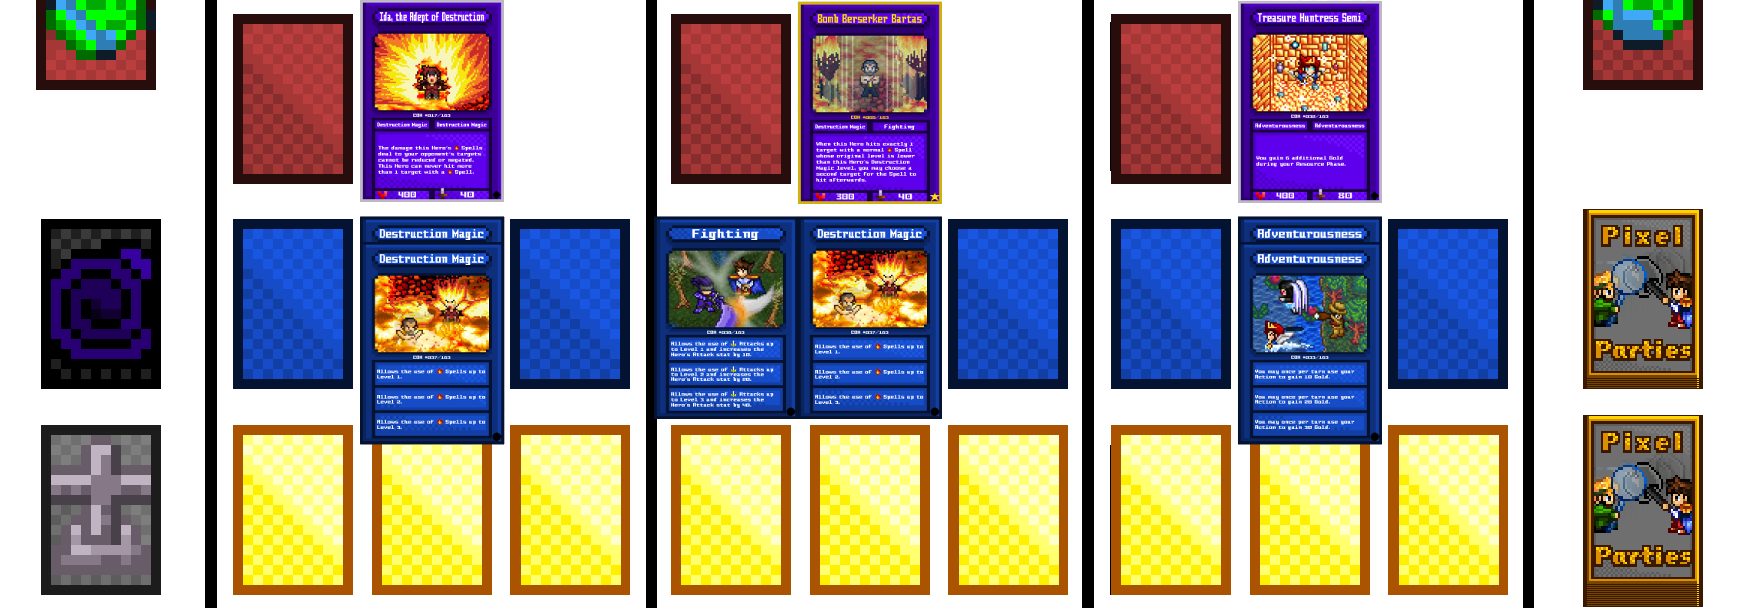
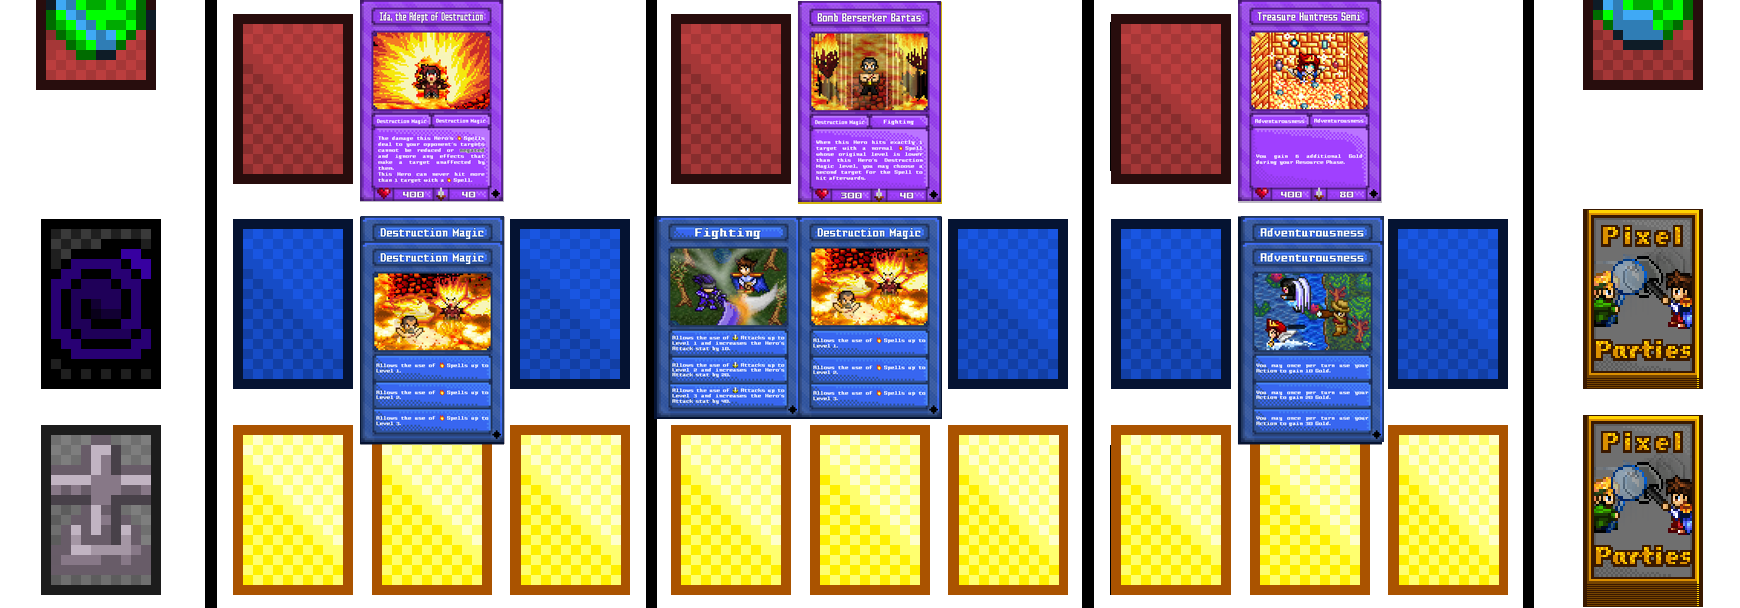
i18n: Cybug-Akronyme bleiben englisch; Regelbild board-setup.png (EN/DE) mit aktuellen Karten
Claude-Session: https://claude.ai/code/session_012viCd6CLZBZj7oRdhobJ6m

Changed region(s): [[0.3724, 0.0, 0.5586, 0.6875], [0.1862, 0.0, 0.3103, 0.75], [0.7138, 0.0, 0.8069, 0.75]]

diff --git a/scripts/i18n/regel-bilder.py b/scripts/i18n/regel-bilder.py
@@ -210,8 +210,39 @@ def run(name, lang, folder, outdir):
     os.makedirs(outdir, exist_ok=True)
     out = os.path.join(outdir, name + '.png'); img.save(out); return out
 
-if __name__ == '__main__':
+if __name__ == '__main__' and sys.argv[1] != 'spielfeld':
     which = sys.argv[1]; folder = sys.argv[2]; outbase = sys.argv[3] if len(sys.argv) > 3 else os.path.join(ROOT, 'public/rules')
     for name in (list(CONFIG) if which == 'alle' else [which]):
         for lang in ('en', 'de'):
             print(run(name, lang, folder, outbase if lang == 'en' else os.path.join(outbase, 'de')))
+
+
+# ── Spielfeld-Bild (board-setup.png): kleine Karten (143x201) durch die aktuelle Darstellung ersetzen ──
+def _bbox(rgb, region, pred):
+    x0, y0, x1, y1 = region
+    sub = rgb[y0:y1, x0:x1]; m = pred(sub); ys, xs = np.nonzero(m)
+    return (x0 + int(xs.min()), y0 + int(ys.min()), x0 + int(xs.max()), y0 + int(ys.max()))
+
+def run_board(lang, folder, outdir):
+    src = Image.open(os.path.join(SRC_DIR, 'board-setup.png')).convert('RGBA')
+    rgb = np.array(src.convert('RGB')).astype(int)
+    nonbg = lambda s: ~(((s == 255).all(2)) | ((s == 0).all(2)))
+    img = src.copy()
+    W_, H_ = 143, 201
+    def small(card):
+        c = Image.open(os.path.join(folder, 'card-%s-%s.png' % (lang, card))).convert('RGBA')
+        return c.resize((W_, H_), Image.LANCZOS)
+    def put(card, x, y): img.alpha_composite(small(card), (x, y))
+    # Helden (obere Reihe)
+    for card, region in (('Ida_the_Adept_of_Destruction', (358, 0, 520, 215)), ('Bomb_Berserker_Bartas', (795, 0, 960, 215)), ('Treasure_Huntress_Semi', (1235, 0, 1400, 215))):
+        b = _bbox(rgb, region, nonbg); put(card, b[0] + (b[2] - b[0] + 1 - W_) // 2, b[1])
+    # Faehigkeiten: Stapel (hinten nur die Kopfleiste sichtbar) und zwei nebeneinander
+    blue = lambda s: (s[..., 2] > 60) & (s[..., 0] < 120) & nonbg(s)
+    b = _bbox(rgb, (358, 216, 520, 450), blue); put('Destruction_Magic', b[0], b[1]); put('Destruction_Magic', b[0], b[3] - H_ + 1)
+    b = _bbox(rgb, (640, 216, 945, 450), blue); put('Fighting', b[0], b[1]); put('Destruction_Magic', b[2] - W_ + 1, b[1])
+    b = _bbox(rgb, (1235, 216, 1400, 450), blue); put('Adventurousness', b[0], b[1]); put('Adventurousness', b[0], b[3] - H_ + 1)
+    os.makedirs(outdir, exist_ok=True); out = os.path.join(outdir, 'board-setup.png'); img.save(out); return out
+
+if __name__ == '__main__' and len(sys.argv) > 1 and sys.argv[1] == 'spielfeld':
+    folder = sys.argv[2]; outbase = sys.argv[3] if len(sys.argv) > 3 else os.path.join(ROOT, 'public/rules')
+    print(run_board('en', folder, outbase)); print(run_board('de', folder, os.path.join(outbase, 'de')))
